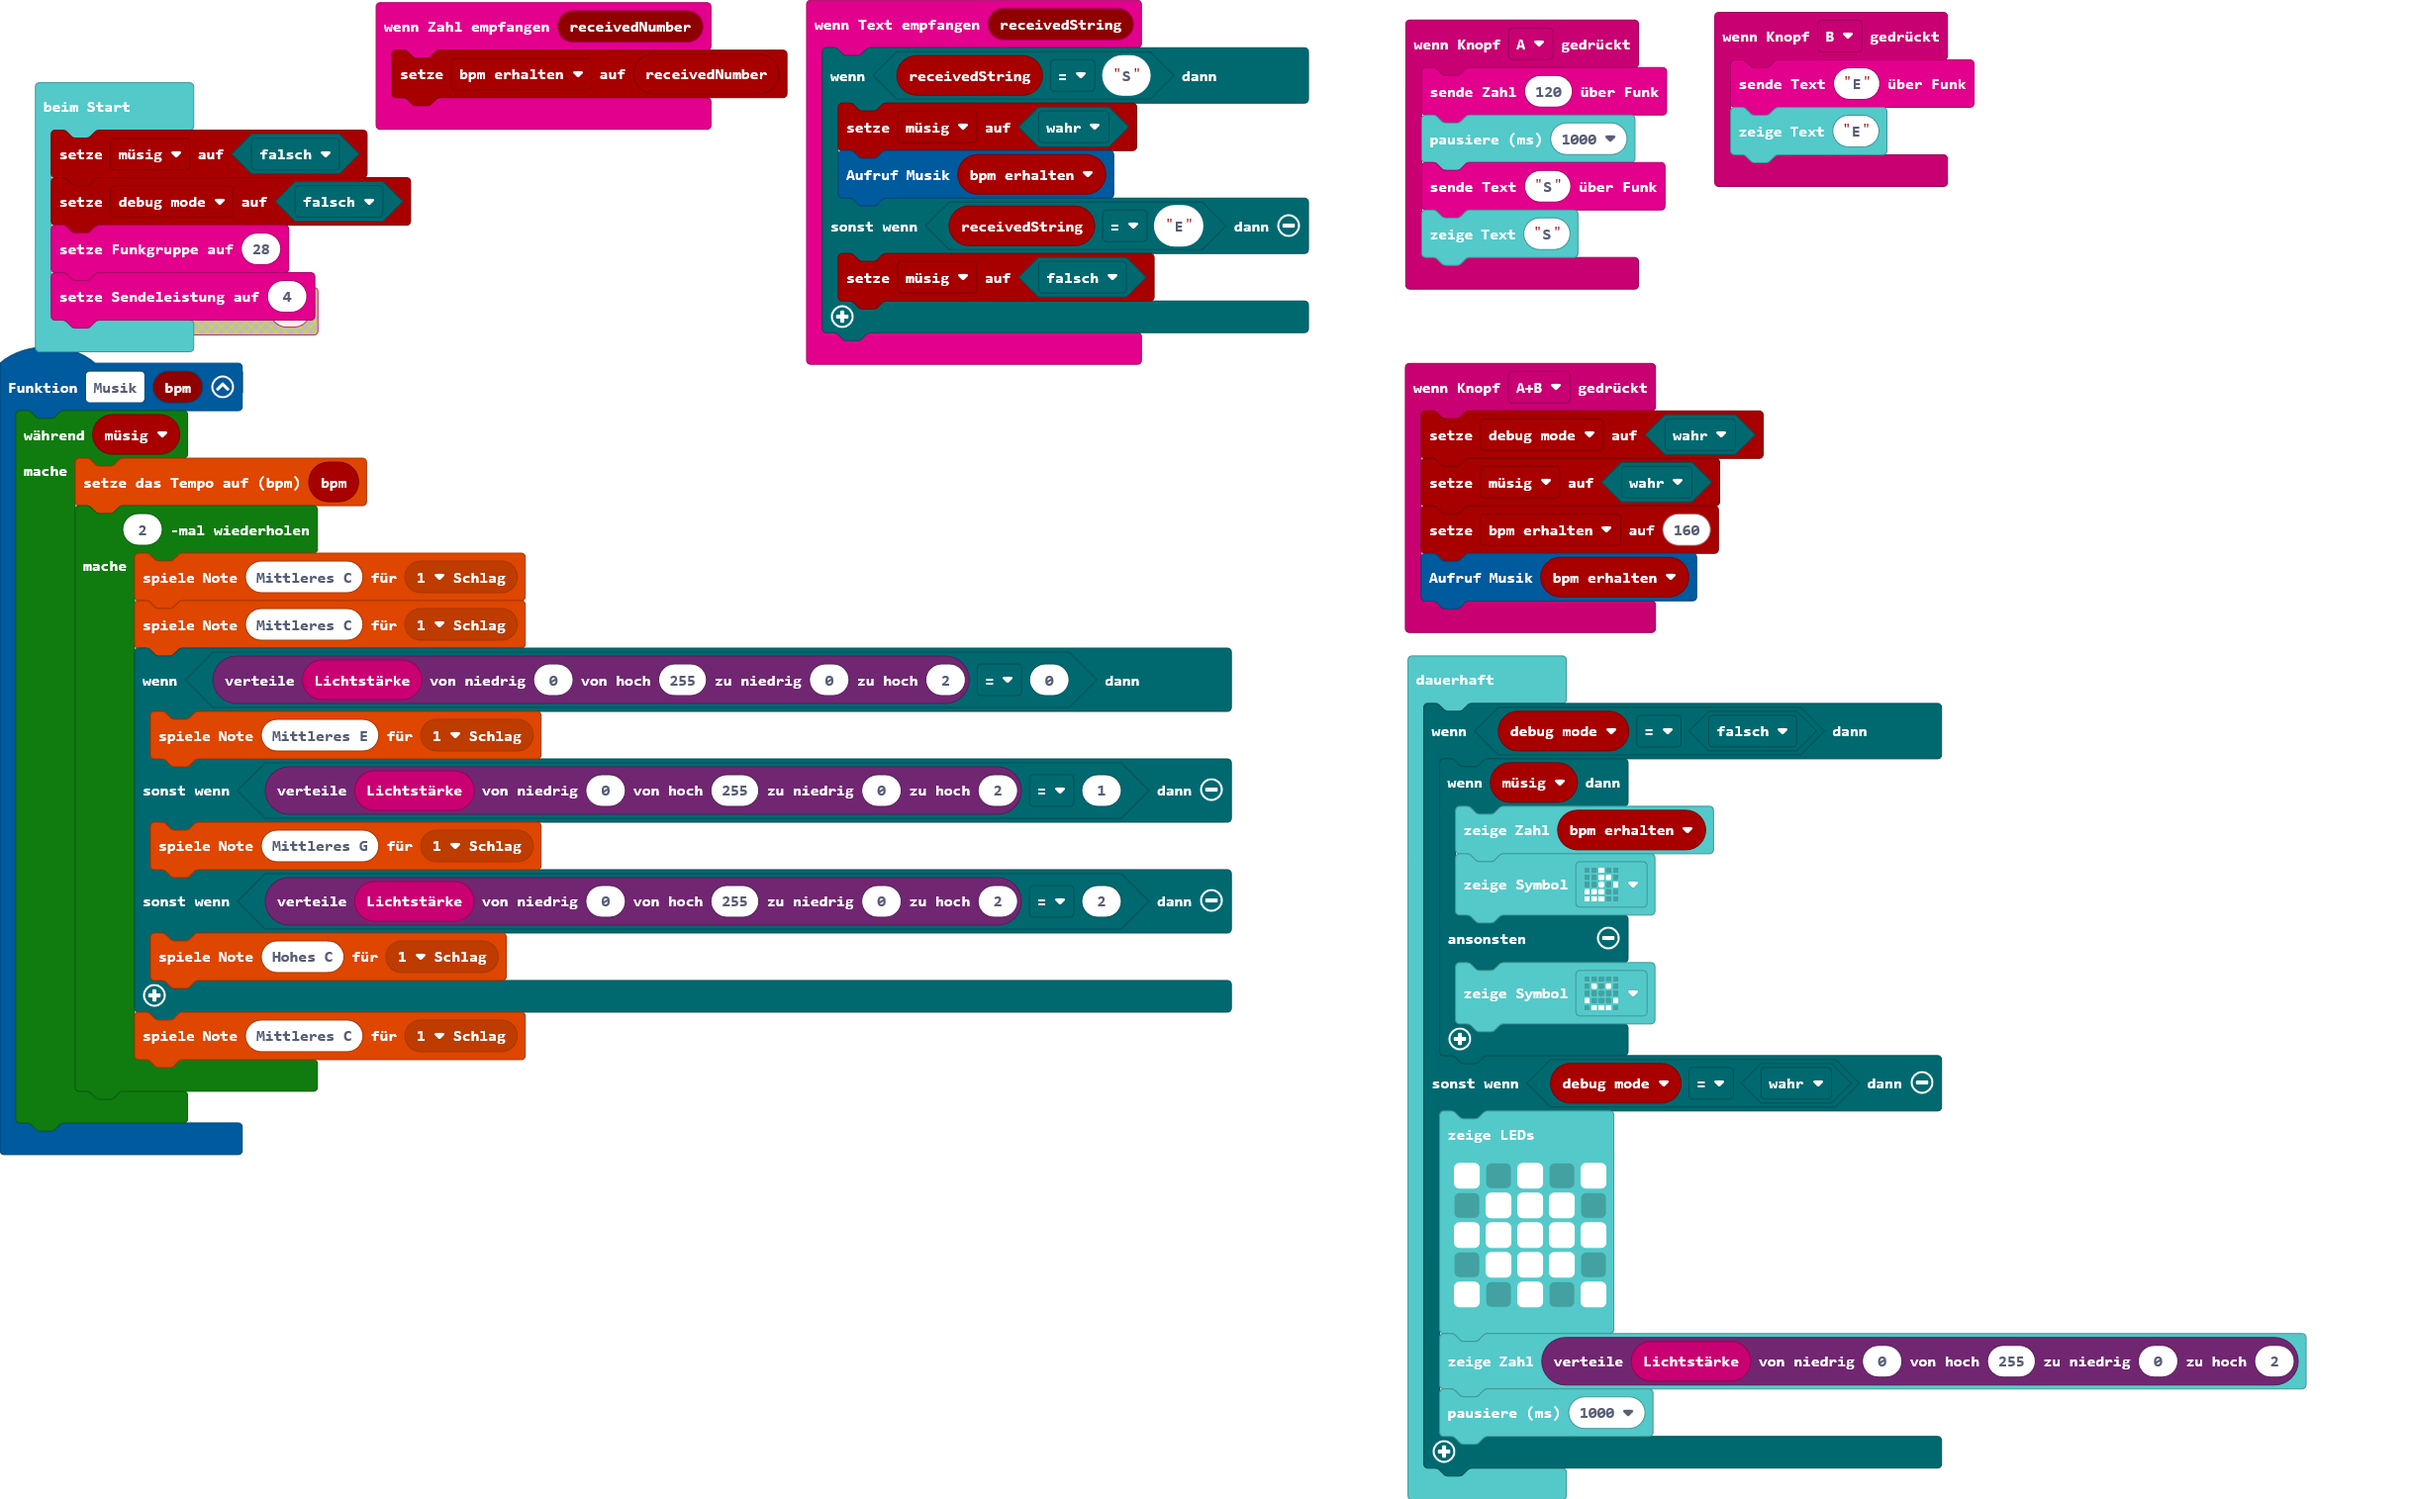
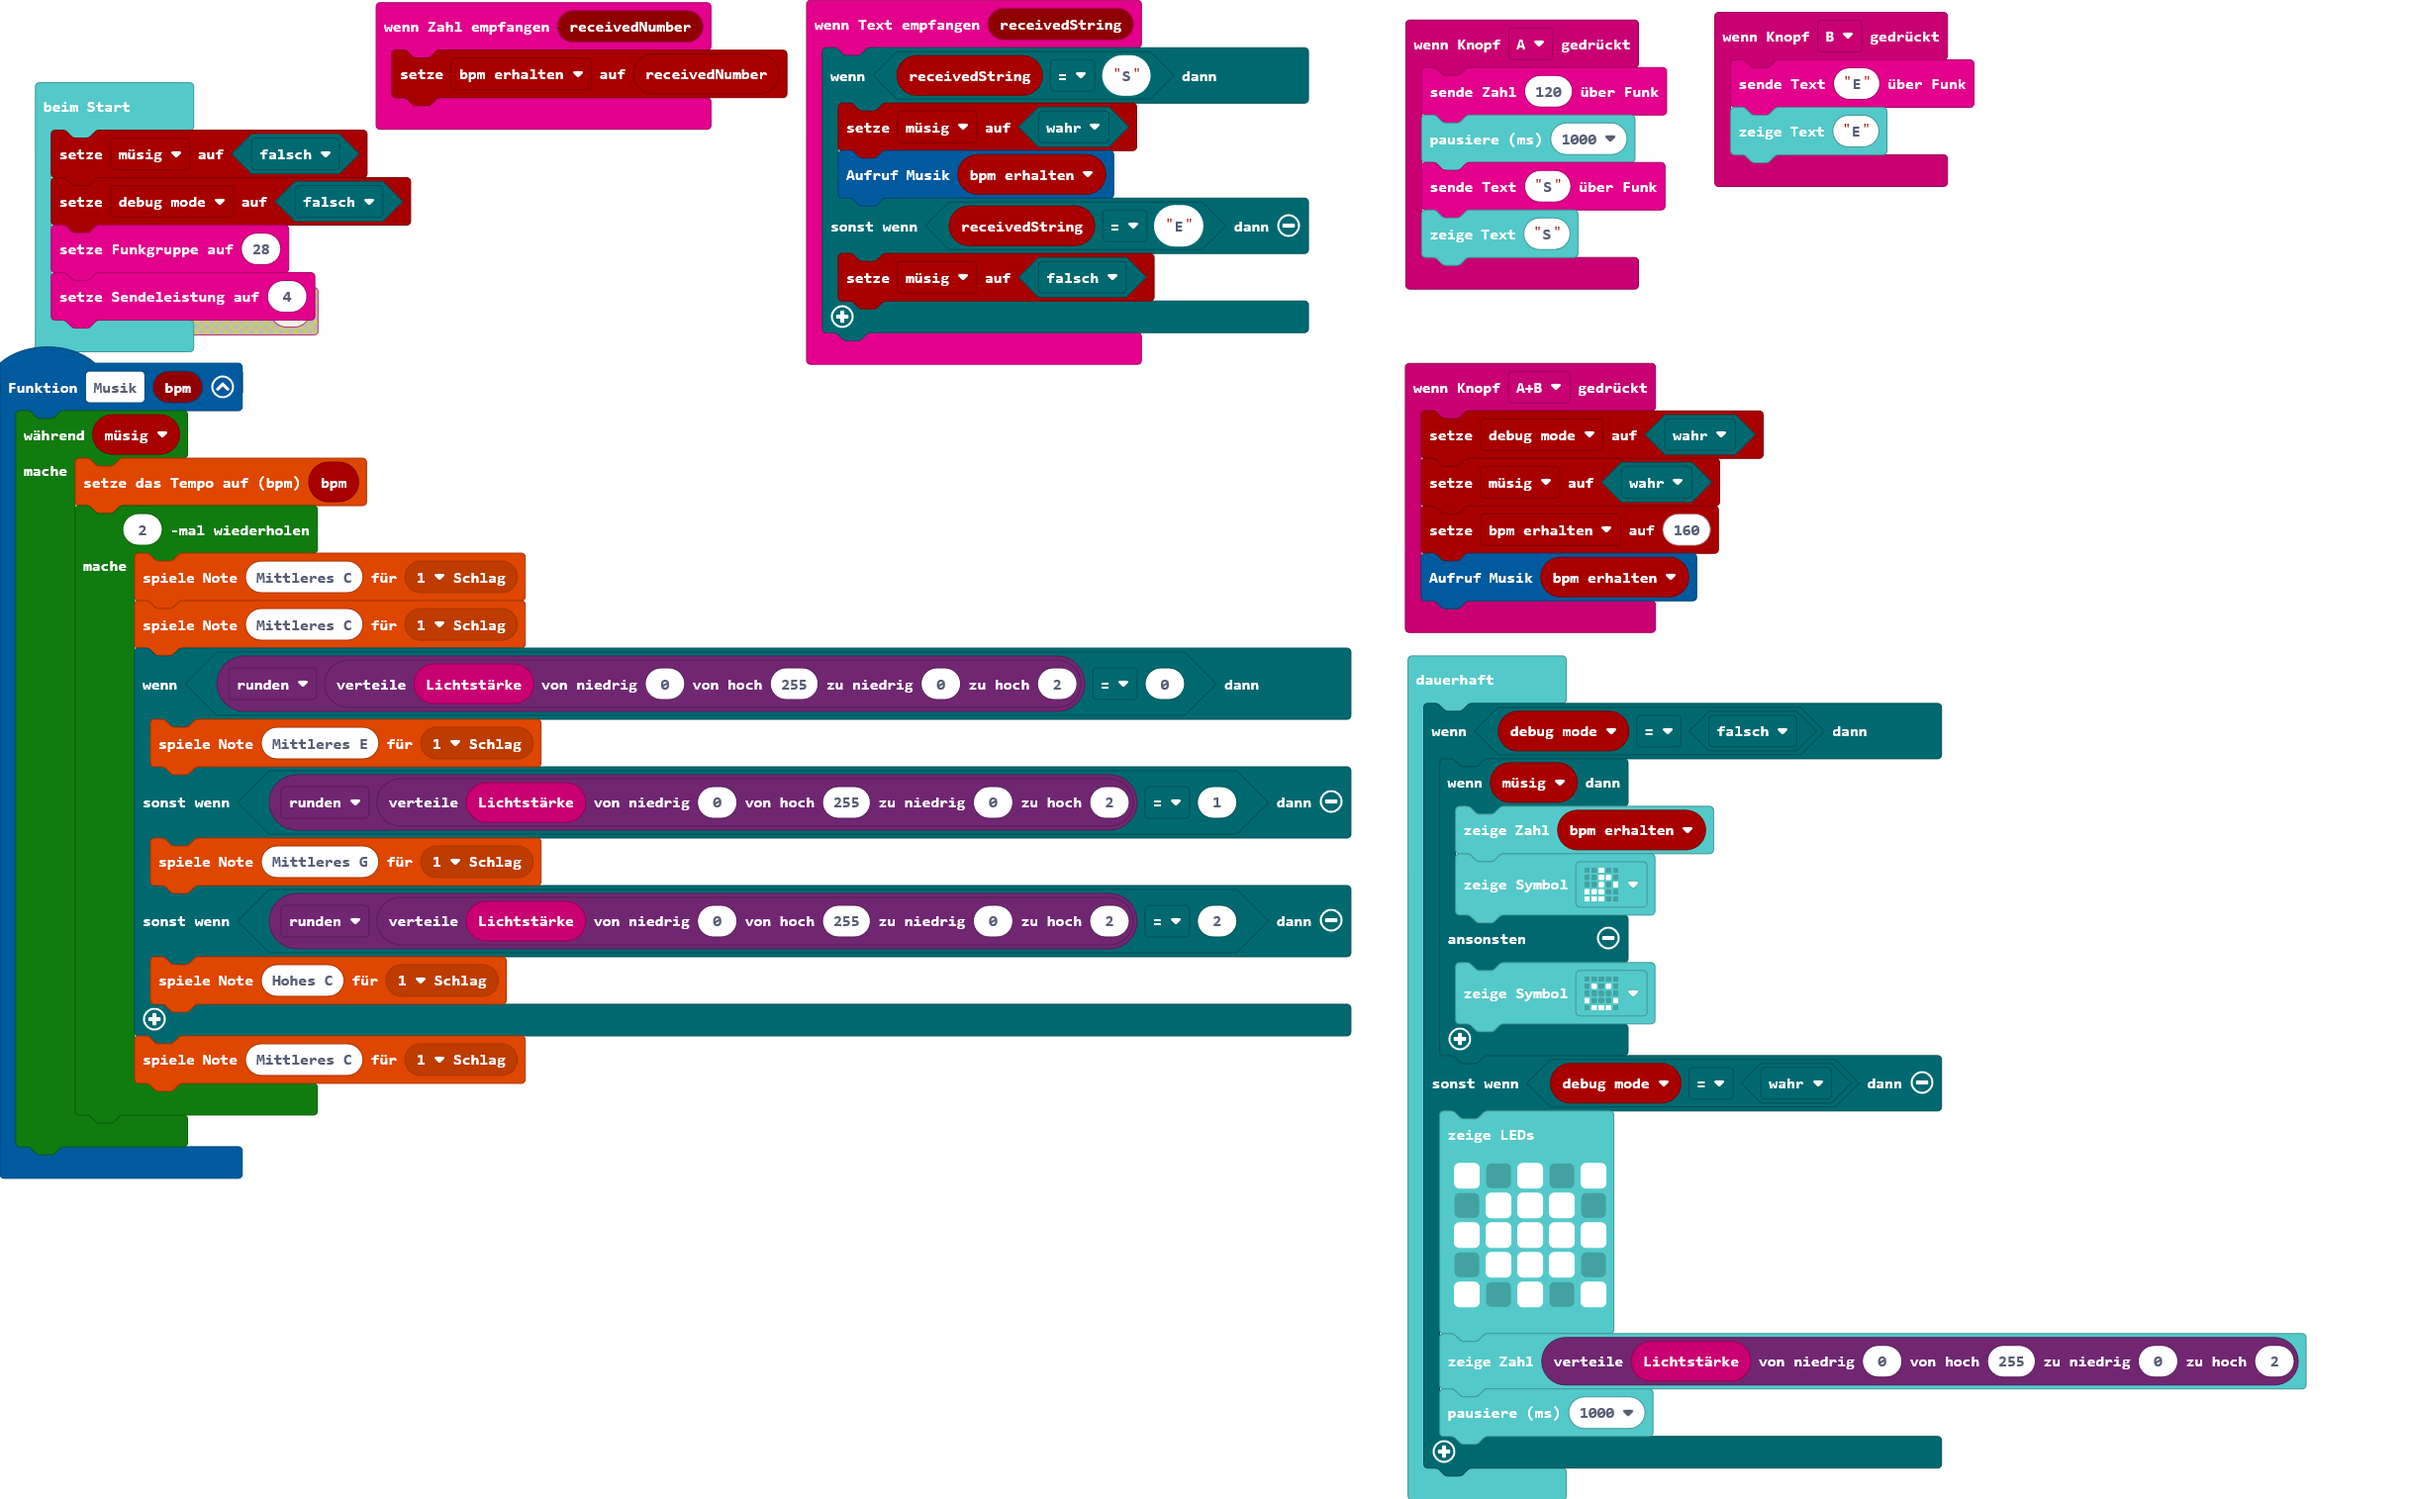
Aktualisiere main.blocks, main.ts

Changed region(s): [[0.0, 0.4343, 0.562, 0.8066]]

diff --git a/main.ts b/main.ts
@@ -7,11 +7,11 @@ function Musik (bpm: number) {
         for (let index = 0; index < 2; index++) {
             music.playTone(262, music.beat(BeatFraction.Whole))
             music.playTone(262, music.beat(BeatFraction.Whole))
-            if (Math.map(input.lightLevel(), 0, 255, 0, 2) == 0) {
+            if (Math.round(Math.map(input.lightLevel(), 0, 255, 0, 2)) == 0) {
                 music.playTone(330, music.beat(BeatFraction.Whole))
-            } else if (Math.map(input.lightLevel(), 0, 255, 0, 2) == 1) {
+            } else if (Math.round(Math.map(input.lightLevel(), 0, 255, 0, 2)) == 1) {
                 music.playTone(392, music.beat(BeatFraction.Whole))
-            } else if (Math.map(input.lightLevel(), 0, 255, 0, 2) == 2) {
+            } else if (Math.round(Math.map(input.lightLevel(), 0, 255, 0, 2)) == 2) {
                 music.playTone(523, music.beat(BeatFraction.Whole))
             }
             music.playTone(262, music.beat(BeatFraction.Whole))
